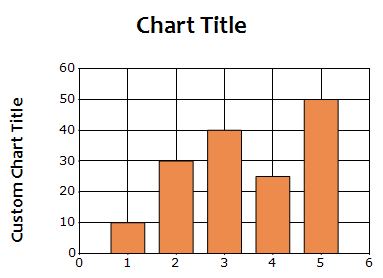
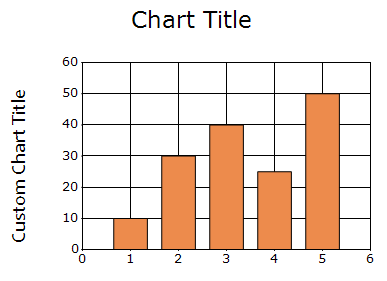
Add chart title pending

Changed region(s): [[0.1436, 0.2014, 0.9765, 0.9784], [0.0287, 0.3165, 0.0862, 0.8921], [0.3159, 0.0288, 0.6606, 0.1439]]

diff --git a/WindowsForms-toc.html b/WindowsForms-toc.html
@@ -566,10 +566,10 @@
 				<a href="/windowsforms/Chart/stripline">Stripine</a>
 			</li>
 			<li>
-				<a href="/windowsforms/Chart/chart-break">Chart Break</a>
+				<a href="/windowsforms/Chart/chart-breaks">Chart Break</a>
 			</li>
 			<li>
-				<a href="/windowsforms/Chart/trendline">Trendline</a>
+				<a href="/windowsforms/Chart/trendlines">Trendline</a>
 			</li>
 			<li>
 				User Interactions

diff --git a/WindowsForms/chart/Chart-Title.md b/WindowsForms/chart/Chart-Title.md
@@ -18,15 +18,17 @@ The following code example displays the default chart title.
 {% tabs %}
 {% highlight c# %}
 
-chartControl.Title.Text = "Chart Title";
+chartControl.Text = "Chart Title";
 
 {% endhighlight %}
 {% highlight vb %}
 
-chartControl.Title.Text = "Chart Title"
+chartControl.Text = "Chart Title"
 
 {% endhighlight %}
 {% endtabs %}
+
+![Chart Title in Windows Forms Chart](Chart-Appearance_images/chart_title.png)
 
 ## Multiple titles
 
@@ -53,24 +55,28 @@ chartControl.Titles.Add(chartTitle)
 {% endhighlight %}
 {% endtabs %}
 
-![Multiple Chart titles in Windows Forms Chart](Chart-Appearance_images/multiple_chart_title.png)
+![Multiple Chart Titles in Windows Forms Chart](Chart-Appearance_images/multiple_chart_title.png)
 
 ## Title visibility
 
 The [Visible](https://help.syncfusion.com/cr/windowsforms/Syncfusion.Windows.Forms.Chart.ChartTitle.html#Syncfusion_Windows_Forms_Chart_ChartTitle_Visible) property controls whether a chart title is displayed.
 
+The following code example hides the chart title.
+
 {% tabs %}
 {% highlight c# %}
 
-chartTitle.Visible = true;
+chartTitle.Visible = false;
 
 {% endhighlight %}
 {% highlight vb %}
 
-chartTitle.Visible = True
+chartTitle.Visible = False
 
 {% endhighlight %}
 {% endtabs %}
+
+![Chart Title Visible in Windows Forms Chart](Chart-Appearance_images/title_visible.png)
 
 ## Title alignment
 
@@ -95,7 +101,7 @@ chartControl.Title.Alignment = ChartAlignment.Near
 {% endhighlight %}
 {% endtabs %}
 
-![Chart titles alignment in Windows Forms Chart](Chart-Appearance_images/chart_alignment.png)
+![Chart Title Alignment in Windows Forms Chart](Chart-Appearance_images/chart_title_alignment.png)
 
 ## Title position
 
@@ -121,84 +127,85 @@ chartControl.Title.Position = ChartDock.Left
 {% endhighlight %}
 {% endtabs %}
 
-![Chart title position in Windows Forms Chart](Chart-Appearance_images/chart_position.png)
+![Chart Title Position in Windows Forms Chart](Chart-Appearance_images/chart_title_position.png)
 
 ## Floating title
 
-Set the `Position` property to `ChartDock.Floating` and use the [Location](https://help.syncfusion.com/cr/windowsforms/Syncfusion.Windows.Forms.Chart.ChartTitle.html#Syncfusion_Windows_Forms_Chart_ChartTitle_Location) property to place a title at a custom location.
+Set the [Position](https://help.syncfusion.com/cr/windowsforms/Syncfusion.Windows.Forms.Chart.ChartTitle.html#Syncfusion_Windows_Forms_Chart_ChartTitle_Position) property to [Floating](https://help.syncfusion.com/cr/windowsforms/Syncfusion.Windows.Forms.Chart.ChartDock.html#Syncfusion_Windows_Forms_Chart_ChartDock_Floating) and use the [Location](https://help.syncfusion.com/cr/windowsforms/Syncfusion.Windows.Forms.Chart.ChartTitle.html#Syncfusion_Windows_Forms_Chart_ChartTitle_Location) property to place a title at a custom location.
+
+The following code example displays the chart title at the location (150, 20).
 
 {% tabs %}
 {% highlight c# %}
 
 chartTitle.Position = ChartDock.Floating;
-chartTitle.Location = new Point(200, 20);
+chartTitle.Location = new Point(150, 20);
 
 {% endhighlight %}
 {% highlight vb %}
 
 chartTitle.Position = ChartDock.Floating
-chartTitle.Location = New Point(200, 20)
+chartTitle.Location = New Point(150, 20)
 
 {% endhighlight %}
 {% endtabs %}
+
+![Chart Title Location in Windows Forms Chart](Chart-Appearance_images/chart_title_location.png)
 
 ## Customizing the title
 
 The following properties customize the appearance and layout of a chart title:
 
-- [Text](https://help.syncfusion.com/cr/windowsforms/Syncfusion.Windows.Forms.Chart.ChartTitle.html#Syncfusion_Windows_Forms_Chart_ChartTitle_Text): Specifies the title text.
-- [Font](https://help.syncfusion.com/cr/windowsforms/Syncfusion.Windows.Forms.Chart.ChartTitle.html#Syncfusion_Windows_Forms_Chart_ChartTitle_Font): Specifies the font family, size, and style of the title text.
-- `ForeColor`: Specifies the title text color.
+- [Font](https://help.syncfusion.com/cr/windowsforms/Syncfusion.Windows.Forms.Chart.ChartTitle.html#Syncfusion_Windows_Forms_Chart_ChartTitle_Font): Specifies the font family, size, and style of the title text. The default value is **Verdana, 14 pt, Regular**.
+- [ForeColor](https://learn.microsoft.com/en-us/dotnet/api/system.windows.forms.control.forecolor?view=windowsdesktop-10.0#system-windows-forms-control-forecolor): Specifies the title text color. The default value is `Color.Black`.
 - [BackColor](https://help.syncfusion.com/cr/windowsforms/Syncfusion.Windows.Forms.Chart.ChartTitle.html#Syncfusion_Windows_Forms_Chart_ChartTitle_BackColor): Specifies the title background color. The default value is `Color.Transparent`.
 - [Margin](https://help.syncfusion.com/cr/windowsforms/Syncfusion.Windows.Forms.Chart.ChartTitle.html#Syncfusion_Windows_Forms_Chart_ChartTitle_Margin): Specifies the margin around the title text. The default value is `4`.
-- [AutoSize](https://help.syncfusion.com/cr/windowsforms/Syncfusion.Windows.Forms.Chart.ChartTitle.html#Syncfusion_Windows_Forms_Chart_ChartTitle_AutoSize): Specifies whether the title size is calculated automatically based on its text.
-- [Size](https://help.syncfusion.com/cr/windowsforms/Syncfusion.Windows.Forms.Chart.ChartTitle.html#Syncfusion_Windows_Forms_Chart_ChartTitle_Size): Specifies the height and width of the title when a custom size is required.
-- [Orientation](https://help.syncfusion.com/cr/windowsforms/Syncfusion.Windows.Forms.Chart.ChartTitle.html#Syncfusion_Windows_Forms_Chart_ChartTitle_Orientation): Specifies the orientation of the title.
-- [ShowBorder](https://help.syncfusion.com/cr/windowsforms/Syncfusion.Windows.Forms.Chart.ChartTitle.html#Syncfusion_Windows_Forms_Chart_ChartTitle_ShowBorder): Controls whether the title border is displayed.
-- [Border](https://help.syncfusion.com/cr/windowsforms/Syncfusion.Windows.Forms.Chart.ChartTitle.html#Syncfusion_Windows_Forms_Chart_ChartTitle_Border): Returns the `LineInfo` object used to customize the title border.
+- [AutoSize](https://help.syncfusion.com/cr/windowsforms/Syncfusion.Windows.Forms.Chart.ChartTitle.html#Syncfusion_Windows_Forms_Chart_ChartTitle_AutoSize): Specifies whether the title size is calculated automatically based on its text. The default value is `true`.
+- [Size](https://help.syncfusion.com/cr/windowsforms/Syncfusion.Windows.Forms.Chart.ChartTitle.html#Syncfusion_Windows_Forms_Chart_ChartTitle_Size): Specifies the height and width of the title when a custom size is required. When AutoSize is set to true, the title size is calculated automatically based on its text.
+- [Orientation](https://help.syncfusion.com/cr/windowsforms/Syncfusion.Windows.Forms.Chart.ChartTitle.html#Syncfusion_Windows_Forms_Chart_ChartTitle_Orientation): Specifies the orientation of the title. The default value is [Horizontal](https://help.syncfusion.com/cr/windowsforms/Syncfusion.Windows.Forms.Chart.ChartOrientation.html#Syncfusion_Windows_Forms_Chart_ChartOrientation_Horizontal). The supported values are:
+    - [Horizontal](https://help.syncfusion.com/cr/windowsforms/Syncfusion.Windows.Forms.Chart.ChartOrientation.html#Syncfusion_Windows_Forms_Chart_ChartOrientation_Horizontal): Displays the title horizontally.
+    - [Vertical](https://help.syncfusion.com/cr/windowsforms/Syncfusion.Windows.Forms.Chart.ChartOrientation.html#Syncfusion_Windows_Forms_Chart_ChartOrientation_Vertical): Displays the title vertically.
+- [ShowBorder](https://help.syncfusion.com/cr/windowsforms/Syncfusion.Windows.Forms.Chart.ChartTitle.html#Syncfusion_Windows_Forms_Chart_ChartTitle_ShowBorder): Controls whether the title border is displayed. The default value is `false`.
+- [Border](https://help.syncfusion.com/cr/windowsforms/Syncfusion.Windows.Forms.Chart.ChartTitle.html#Syncfusion_Windows_Forms_Chart_ChartTitle_Border): Returns the [LineInfo](https://help.syncfusion.com/cr/windowsforms/Syncfusion.Windows.Forms.Chart.LineInfo.html) object used to customize the title border. This property is read-only.
+
+N> The [Orientation](https://help.syncfusion.com/cr/windowsforms/Syncfusion.Windows.Forms.Chart.ChartTitle.html#Syncfusion_Windows_Forms_Chart_ChartTitle_Orientation) property is applicable only when the title [Position](https://help.syncfusion.com/cr/windowsforms/Syncfusion.Windows.Forms.Chart.ChartTitle.html#Syncfusion_Windows_Forms_Chart_ChartTitle_Position) is set to [Floating](https://help.syncfusion.com/cr/windowsforms/Syncfusion.Windows.Forms.Chart.ChartDock.html#Syncfusion_Windows_Forms_Chart_ChartDock_Floating).
 
 The following code example customizes the chart title.
 
 {% tabs %}
 {% highlight c# %}
 
-chartTitle.Font = new Font(
-    "Segoe UI",
-    14,
-    FontStyle.Bold);
+chartControl.Title.ForeColor = Color.Red;
+chartControl.Title.BackColor = Color.LightGoldenrodYellow;
+chartControl.Title.Margin = 6;
+chartControl.Title.AutoSize = false;
+chartControl.Title.Orientation = ChartOrientation.Horizontal;
 
-chartTitle.ForeColor = Color.DarkBlue;
-chartTitle.BackColor = Color.LightBlue;
-chartTitle.Margin = 8;
-chartTitle.AutoSize = true;
-chartTitle.Orientation = ChartOrientation.Horizontal;
-
-chartTitle.ShowBorder = true;
-chartTitle.Border.Color = Color.DarkBlue;
-chartTitle.Border.Width = 2;
-chartTitle.Border.DashStyle = DashStyle.Solid;
+chartControl.Title.ShowBorder = true;
+chartControl.Title.Border.ForeColor = Color.DarkBlue;
+chartControl.Title.Border.Width = 2;
+chartControl.Title.Border.DashStyle = DashStyle.Dash;
+chartControl.Title.Font = new System.Drawing.Font("Candara", 12F, System.Drawing.FontStyle.Bold);
 
 {% endhighlight %}
 {% highlight vb %}
 
-chartTitle.Font = New Font(
-    "Segoe UI",
-    14,
-    FontStyle.Bold)
+chartControl.Title.ForeColor = Color.Red
+chartControl.Title.BackColor = Color.LightGoldenrodYellow
+chartControl.Title.Margin = 6
+chartControl.Title.AutoSize = False
+chartControl.Title.Orientation = ChartOrientation.Horizontal
 
-chartTitle.ForeColor = Color.DarkBlue
-chartTitle.BackColor = Color.LightBlue
-chartTitle.Margin = 8
-chartTitle.AutoSize = True
-chartTitle.Orientation = ChartOrientation.Horizontal
-
-chartTitle.ShowBorder = True
-chartTitle.Border.Color = Color.DarkBlue
-chartTitle.Border.Width = 2
-chartTitle.Border.DashStyle = DashStyle.Solid
+chartControl.Title.ShowBorder = True
+chartControl.Title.Border.ForeColor = Color.DarkBlue
+chartControl.Title.Border.Width = 2
+chartControl.Title.Border.DashStyle = DashStyle.Dash
+chartControl.Title.Font = New System.Drawing.Font("Candara", 12.0F, System.Drawing.FontStyle.Bold)
 
 {% endhighlight %}
 {% endtabs %}
+
+![Chart title customization in Windows Forms Chart](Chart-Appearance_images/title_customization.png)
 
 ## See also
 

diff --git a/WindowsForms/chart/Chart-Legend-and-Legend-Items.md b/WindowsForms/chart/Chart-Legend-and-Legend-Items.md
@@ -7,7 +7,7 @@ control: Chart
 documentation: ug
 ---
 
-## Legend in Windows Forms Chart
+# Legend in Windows Forms Chart
 
 The legend identifies the data series and chart elements displayed in the chart. Each legend item usually represents a chart series and can display text, an icon, a symbol, an image, or a checkbox.
 
@@ -55,7 +55,7 @@ chartControl.ShowLegend = False
 
 ![Show Legend in Windows Forms Chart](Chart-Legend-and-Legend-Items_images/show-legend.png)
 
-### Chart legend visiblility
+### Chart legend visibility
 
 The `Visible` property controls whether a specific [ChartLegend](https://help.syncfusion.com/cr/windowsforms/Syncfusion.Windows.Forms.Chart.ChartLegend.html) instance is displayed or not. This property can be used for the default legend or any additional legend added to the chart. The default value is `true`.
 
@@ -210,7 +210,7 @@ The legend title and individual item labels can be customized independently.
 The following properties customize the legend title:
 
 - [Text](https://help.syncfusion.com/cr/windowsforms/Syncfusion.Windows.Forms.Chart.ChartLegend.html#Syncfusion_Windows_Forms_Chart_ChartLegend_Text): Specifies the legend title text. The default value is `empty string`.
-- [ForeColor](https://help.syncfusion.com/cr/windowsforms/Syncfusion.Windows.Forms.Chart.ChartLegend.html): Specifies the title color. The defaul value is `Color.Black`.
+- [ForeColor](https://help.syncfusion.com/cr/windowsforms/Syncfusion.Windows.Forms.Chart.ChartLegend.html): Specifies the title color. The default value is `Color.Black`.
 - [TextAlignment](https://help.syncfusion.com/cr/windowsforms/Syncfusion.Windows.Forms.Chart.ChartLegend.html#Syncfusion_Windows_Forms_Chart_ChartLegend_TextAlignment): Specifies the alignment of the legend title text. The default value is `StringAlignment.Center`.
 - The supported [StringAlignment](https://learn.microsoft.com/en-us/dotnet/api/system.drawing.stringalignment?view=net-11.0-pp) values are:
   - `Near`: Aligns the title near the starting edge.
@@ -244,7 +244,7 @@ chartControl.Legend.Font = New Font("Segoe UI", 10, FontStyle.Bold)
 The following properties customize an individual legend item label:
 
 - [Text](https://help.syncfusion.com/cr/windowsforms/Syncfusion.Windows.Forms.Chart.ChartLegendItem.html#Syncfusion_Windows_Forms_Chart_ChartLegendItem_Text): Specifies the item text. By default, the corresponding series name is displayed.
-- [TextColor](https://help.syncfusion.com/cr/windowsforms/Syncfusion.Windows.Forms.Chart.ChartLegendItem.html#Syncfusion_Windows_Forms_Chart_ChartLegendItem_TextColor): Specifies the item text color. The defaul value is `Color.Black`.
+- [TextColor](https://help.syncfusion.com/cr/windowsforms/Syncfusion.Windows.Forms.Chart.ChartLegendItem.html#Syncfusion_Windows_Forms_Chart_ChartLegendItem_TextColor): Specifies the item text color. The default value is `Color.Black`.
 - [Font](https://help.syncfusion.com/cr/windowsforms/Syncfusion.Windows.Forms.Chart.ChartLegendItem.html#Syncfusion_Windows_Forms_Chart_ChartLegendItem_Font): Specifies the item font. The default value is `null`.
 - [TextLines](https://help.syncfusion.com/cr/windowsforms/Syncfusion.Windows.Forms.Chart.ChartLegendItem.html#Syncfusion_Windows_Forms_Chart_ChartLegendItem_TextLines): Specifies multiple lines of item text. By default, it reflects the value of the [Text](https://help.syncfusion.com/cr/windowsforms/Syncfusion.Windows.Forms.Chart.ChartLegendItem.html#Syncfusion_Windows_Forms_Chart_ChartLegendItem_Text) property.
 - [TextAligment](https://help.syncfusion.com/cr/windowsforms/Syncfusion.Windows.Forms.Chart.ChartLegendItem.html#Syncfusion_Windows_Forms_Chart_ChartLegendItem_TextAligment): Specifies the vertical alignment of the item text. The default value is [Center](https://help.syncfusion.com/cr/windowsforms/Syncfusion.Windows.Forms.Chart.VerticalAlignment.html#Syncfusion_Windows_Forms_Chart_VerticalAlignment_Center). The supported [VerticalAlignment](https://help.syncfusion.com/cr/windowsforms/Syncfusion.Windows.Forms.Chart.VerticalAlignment.html) values are:

diff --git a/WindowsForms/chart/Getting-Started.md b/WindowsForms/chart/Getting-Started.md
@@ -442,7 +442,7 @@ End Sub
 - [How to host WPF Chart control in Windows Forms project](https://support.syncfusion.com/kb/article/18893/how-to-host-wpf-chart-control-in-windows-forms-project-)
 - [How to create a chart in VB .NET Windows Forms](https://support.syncfusion.com/kb/article/9641/how-to-create-a-chart-in-vb-net-windows-forms)
 - [How to create a real-time chart in WF](https://support.syncfusion.com/kb/article/8266/how-to-create-a-real-time-chart-in-wf)
-- [How to add data to the Chartcontrol in WinForms Chart](https://support.syncfusion.com/kb/article/1254/how-to-add-data-to-the-chartcontrol-in-winforms-chart)
+- [How to add data to the Chart control in WinForms Chart](https://support.syncfusion.com/kb/article/1254/how-to-add-data-to-the-chartcontrol-in-winforms-chart)
 - [How to specify a chart type in Syncfusion Winforms Chart control](https://support.syncfusion.com/kb/article/1250/how-to-specify-a-chart-type-in-syncfusion-winforms-chart-control)
 
 

diff --git a/WindowsForms/chart/Trendlines.md b/WindowsForms/chart/Trendlines.md
@@ -62,8 +62,6 @@ chartControl.Series.Add(series)
 {% endhighlight %}
 {% endtabs %}
 
-![Trendline in Windows Forms Chart](../Chart-Series_Images/trendline.png)
-
 ## Trendline name
 
 The [Name](https://help.syncfusion.com/cr/windowsforms/Syncfusion.Windows.Forms.Chart.Trendline.html#Syncfusion_Windows_Forms_Chart_Trendline_Name) property specifies the name of the trendline. The default value is `Trendline`.
